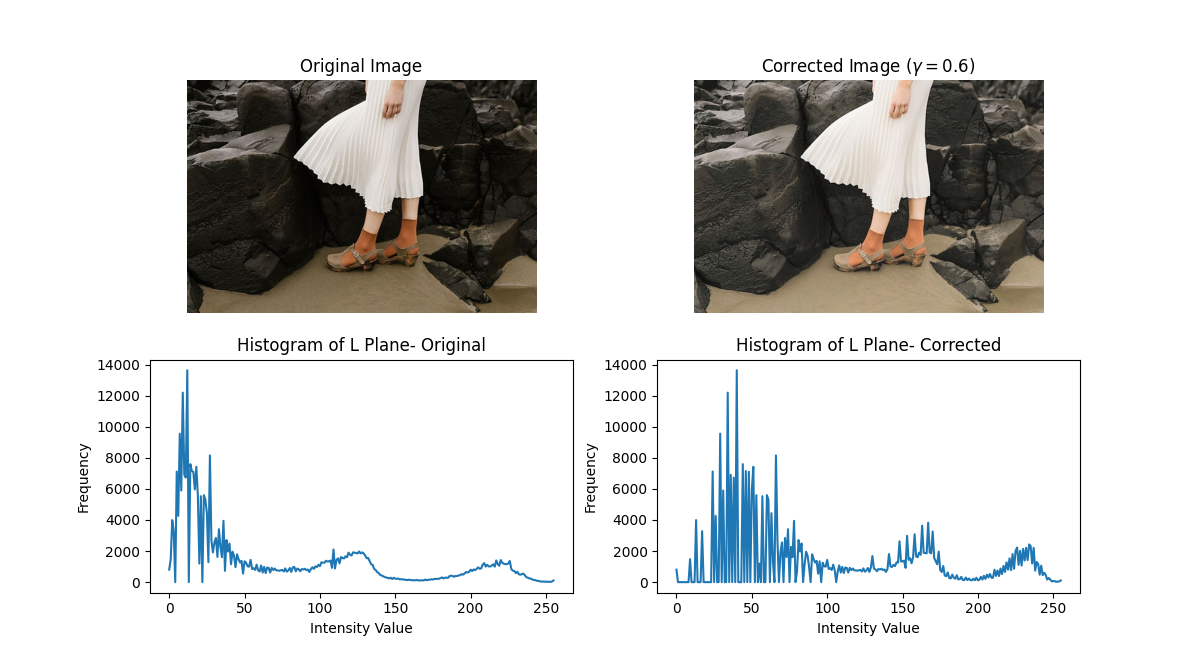
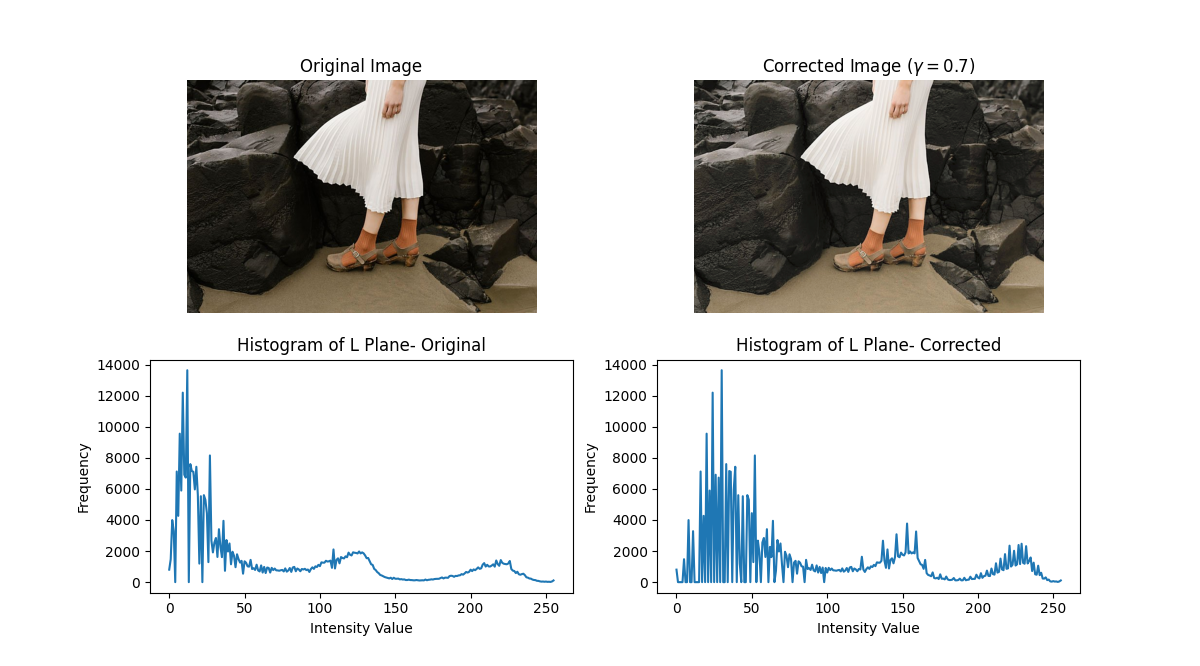
Modified Q3

Changed region(s): [[0.555, 0.5706, 0.8942, 0.9009], [0.6167, 0.0901, 0.8017, 0.1201]]

diff --git a/q3.py b/q3.py
@@ -7,7 +7,7 @@ img_lab = cv.cvtColor(img_orig, cv.COLOR_BGR2LAB)  # Convert to LAB color space
 img_l = img_lab[:, :, 0].copy()  # Extract the L channel
 
 # Apply gamma correction to L channel
-gamma = 0.6
+gamma = 0.7
 t = np.array([(i/255)** gamma * 255 for i in np.arange(256)], dtype='uint8')
 gamma_corrected_l = cv.LUT(img_l, t)    
 
